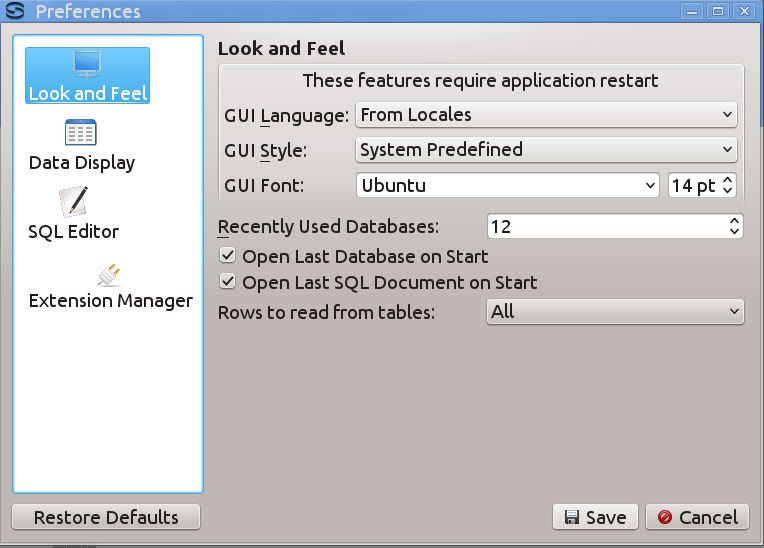
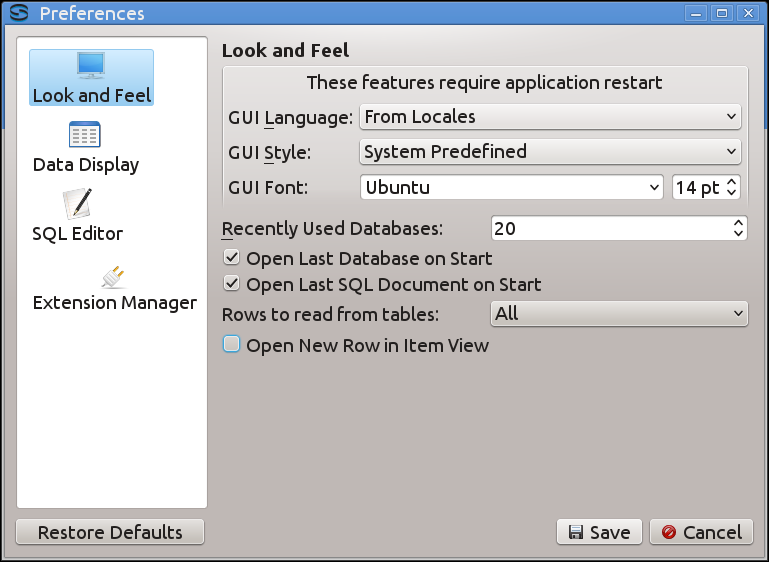
Add preference to open new rows in Item Viewer

Changed region(s): [[0.0, 0.0, 1.0, 1.0]]

diff --git a/Sqliteman/sqliteman/doc/en/ch07s12.html b/Sqliteman/sqliteman/doc/en/ch07s12.html
@@ -6,14 +6,18 @@ from SQL Editor. You cannot commit your changes by <span><strong class="command"
 </p></div><p>Data changes are available only for tables (invoked in Schema Browser). There is no way to edit the data returned
   by an SQL statement yet.</p><p>
           </p><div class="screenshot"><div class="mediaobject"><img src="dataViewer.png" alt="Data Viewer/Browser"></div></div><p>
-          </p><div class="variablelist"><dl><dt><span class="term"><span class="guiicon"><img src="insert_table_row.png">Insert Row</span>
-    </span></dt><dd><p><span class="action">This button is enabled only when viewing a table. It creates a new and empty row at the end of the table. Default values are prefilled except for PRIMARY KEY AUTOINCREMENT fields. <a href="ch07s12.html#commit">Commit</a> action is required to make this permanent. If a field has a default of CURRENT_TIMESTAMP, CURRENT_DATE, or CURRENT_TIME, it will be prefilled with the date and/or time when the record is created, but if the field is not modified it will be overwritten when changes are committed with the date and/or time then.</p></dd><dt><span class="term"><span class="guiicon"><img src="duplicate_table_row.png">Duplicate Row</span>
-    </span></dt><dd><p><span class="action">This button is enabled only when viewing a table and a current row is selected. It creates a copy of the current row at the end of the table (this can be useful when creating rows which differ only in one field).
-    <a href="ch07s12.html#commit">Commit</a> action is required to make this permanent.</span></p></dd><dt><span class="term"><span class="guiicon"><img src="delete_table_row.png">Delete Row</span>
+          </p><div class="variablelist"><dl><dt><span class="term"><span class="guiicon"><img src="insert_table_row.png"><dfn id = "newrow">New Row</dfn></span>
+    </span></dt><dd><p><span class="action">This button is enabled only when viewing a table. It creates a new and empty row at the end of the table. Default values are prefilled except for PRIMARY KEY AUTOINCREMENT fields. <a href="ch07s12.html#commit">Commit</a> action is required to make this permanent. If a field has a default of CURRENT_TIMESTAMP, CURRENT_DATE, or CURRENT_TIME, it will be prefilled with the date and/or time when the record is created, but if the field is not modified it will be overwritten when changes are committed with the date and/or time then.</p></dd><dt><span class="term"><span class="guiicon"><img src="duplicate_table_row.png"><dfn id = "copyrow">Duplicate Row</dfn></span>
+    </span></dt><dd><p><span class="action">This button is enabled only when viewing a table and a current row is selected. It creates a copy of the current row at the end of the table (this can be useful when creating rows which differ only in one field). Note that the Qt SQL library gets confused
+    if the database contains multiple rows with the same data fields: make sure
+    to modify the copy before committing.
+    <a href="ch07s12.html#commit">Commit</a> action is required to make this permanent.</span></p></dd><dt><span class="term"><span class="guiicon"><img src="delete_table_row.png"><dfn id = "removerow">Remove Row</dfn></span>
     </span></dt><dd><p><span class="action">This button is enabled only when viewing a table and a current row is selected. It deletes the selected row from the table.
     <a href="ch07s12.html#commit">Commit</a> action is required to make this permanent.</span></p></dd><dt><span class="term"><span class="guiicon"><img src="delete_multiple.png">Delete Multiple</span>
-    </span></dt><dd><p><span class="action">This button replaces the Delete Row
-    button when you have just executed a query created by the Query Builder.
+    </span></dt><dd><p><span class="action">This button replaces the
+    <a href="ch07s12.html#removerow">Remove Row</a>
+    button when you have just executed a query created by the
+    <a href="ch06s03.html#querybuilder">Query Builder.</a>
     It deletes all the records
     found by the query from the table against which the query was run. It will
     ask you if you really want to first as this can delete a lot of records.
@@ -24,14 +28,14 @@ from SQL Editor. You cannot commit your changes by <span><strong class="command"
     widget, since this can contain a more complex SELECT which cannot be
     simply modified into a DELETE statment.</span></p></dd><dt><span class="term"><span class="guiicon"><img src="database_commit.png"><dfn id = "commit">Commit</dfn></span>
     </span></dt><dd><p><span class="action">This button is enabled only when changes have been made in the DataViewer. It promotes the  changes into the database.</span></p></dd><dt><span class="term"><span class="guiicon"><img src="database_rollback.png"><dfn id ="rollback">Rollback</dfn></span>
-    </span></dt><dd><p><span class="action">This button is eanbled only when changes have been made in the DataViewer. It rejects the changes and reloads the Data Viewer from the database.</span></p></dd><dt><span class="term"><span class="guiicon"><img src="blob.png">Blob Preview</span>
+    </span></dt><dd><p><span class="action">This button is enabled only when changes have been made in the DataViewer. It rejects the changes and reloads the Data Viewer from the database.</span></p></dd><dt><span class="term"><span class="guiicon"><img src="blob.png">Blob Preview</span>
     </span></dt><dd><p><span class="action">Enable or disable BLOB preview widget. The blob preview widget can only be enabled when a field containing a blob is selected, but it can be disabled whenever it is enabled. If the blob preview is enabled, it will appear whenever a field containing a blob is selected and it will attempt to display the blob as an image.
     </span></p></dd><dt><span class="term"><span class="guiicon"><img src="document-export.png">Data Export</span>
     </span></dt><dd><p><span class="action">Open the Data Export dialog. You can export currently selected
       data in various formats. <a href="ch07s13.html" title="Export Data">See Data Export documentation</a>.</span></p></dd><dt><span class="term"><span class="guiicon"><img src="snapshot.png">Table Snapshot</span>
     </span></dt><dd><p><span class="action">Duplicate current result table into new read only window.
       You can compare data versions etc. with it.</span></p></dd><dt><span class="term"><span class="guiicon"><img src="go-next-use.png">Go to line number</span>
-    </span></dt><dd><p><span class="action">This button pops up a dialog to select a row number. It will select the first field of that row and scroll the Data Viewer to make it visible.</span></p></dd></dl></div><div class="sect2" lang="en"><div class="titlepage"><div><div><h3 class="title"><a name="id2527777"></a>Display Types</h3></div></div></div><div class="variablelist"><dl><dt><span class="term">Full View</span></dt><dd><p>Display data as a table. It's the most common view on SQL results.</p></dd><dt><span class="term">Item View</span></dt><dd><p>Clicking on the Item View tab will display the Item View for the currently selected row (the tab is disabled when there is no current row). Double-clicking on a row number in the Full View will open the Item View for that row.</p><p>The Item View displays only one row at a time, but with more space to edit each field. The navigation buttons at the right move to the first, previous, next, and last row respectively, and are disabled if you are already at that row. There are also buttons to overwrite the selected field with a NULL or to open the <a href="ch07s12.html#advanced">Advanced Editor</a>. You can also use the go to line number button.
+    </span></dt><dd><p><span class="action">This button pops up a dialog to select a row number. It will select the first field of that row and scroll the Data Viewer to make it visible.</span></p></dd></dl></div><div class="sect2" lang="en"><div class="titlepage"><div><div><h3 class="title"><a name="id2527777"></a>Display Types</h3></div></div></div><div class="variablelist"><dl><dt><span class="term">Full View</span></dt><dd><p>Display data as a table. It's the most common view on SQL results.</p></dd><dt><span class="term"><dfn id ="itemview">Item View</dfn></span></dt><div class="screenshot"><div class="mediaobject"><img src="itemViewer.png" alt="Item Viewer/Browser"></div><dd><p>Clicking on the Item View tab will display the Item View for the currently selected row (the tab is disabled when there is no current row). Double-clicking on a row number in the Full View will open the Item View for that row.</p><p>The Item View displays only one row at a time, but with more space to edit each field. The navigation buttons at the right move to the first, previous, next, and last row respectively, and are disabled if you are already at that row. You can also use the go to line number button.
         This view is now fully editable and synchronised with the Full View. If you are using NULL higlighting, the NULL alias will disappear if you click on a NULL field, so that you can type something in there: this only happens with editable tables.</p></dd><dt><span class="term">Script Output</span></dt><dd><p>Describe action results and <span><strong class="command">Run As Script</strong></span> from SQL Editor
         results are listed in this tab. It is automatically selected if you run a script.</p></dd></dl></div></div><div class="sect2" lang="en"><div class="titlepage"><div><div><h3 class="title"><a name="dataViewer-editor"></a>Data Editor</h3></div></div></div><p>Basic data editing is handled directly in the table cell, invoked
       by double-click on the field or <span><strong class="keycap">Ctrl</strong></span>+<span><strong class="keycap">Space</strong></span> when a field is selected.</p><div class="important" style="margin-left: 0.5in; margin-right: 0.5in;"><h3 class="title">Important</h3><p>Remember that Sqlite recognizes NULL and empty string as two independent

diff --git a/Sqliteman/sqliteman/doc/en/ch06s03.html b/Sqliteman/sqliteman/doc/en/ch06s03.html
@@ -1,7 +1,7 @@
 <html><head><meta http-equiv="Content-Type" content="text/html; charset=UTF-8"><title>The Database Menu</title><link rel="stylesheet" href="kde-default.css" type="text/css"><meta name="generator" content="DocBook XSL Stylesheets V1.67.2"><meta name="keywords" content="Sqliteman, SQL, Sqlite, development, database"><link rel="start" href="index.html" title="The Sqliteman Handbook"><link rel="up" href="ch06.html" title="Chapter 6. Sqliteman Menu Structure"><link rel="prev" href="ch06s02.html" title="The Context Menu"><link rel="next" href="ch06s04.html" title="The System Menu"></head><body bgcolor="white" text="black" link="#0000FF" vlink="#840084" alink="#0000FF"><div class="navheader"><table width="100%" summary="Navigation header"><tr><th colspan="3" align="center">The <span class="guimenu">Database</span> Menu</th></tr><tr><td width="20%" align="left"><a accesskey="p" href="ch06s02.html">Prev</a> </td><th width="60%" align="center">Chapter 6. <span class="application">Sqliteman</span> Menu Structure</th><td width="20%" align="right"> <a accesskey="n" href="ch06s04.html">Next</a></td></tr></table><hr></div><div class="sect1" lang="en"><div class="titlepage"><div><div><h2 class="title" style="clear: both"><a name="database-menu"></a>The <span class="guimenu">Database</span> Menu</h2></div></div></div><p>Frequently used database tasks are grouped in this menu.</p><p>
 </p><div class="variablelist"><dl><dt><span class="term"><span class="guimenu">Database</span>-&gt;<span class="guimenuitem">Create Table...</span> (<span><strong class="shortcut"><span><strong class="keycap">Ctrl</strong></span>+<span><strong class="keycap">T</strong></span></strong></span>)</span></dt><dd><p><span class="action">The same as in the Context menu.
       <a href="ch07s02.html" title="Create Table">See full Create Table documentation</a></span></p></dd><dt><span class="term"><span class="guimenu">Database</span>-&gt;<span class="guimenuitem">Create View...</span> (<span><strong class="shortcut"><span><strong class="keycap">Ctrl</strong></span>+<span><strong class="keycap">G</strong></span></strong></span>)</span></dt><dd><p><span class="action">The same as in the Context menu.
-      <a href="ch07s06.html" title="View related dialogs">See full Create View documentation</a></span></p></dd><dt><span class="term"><span class="guimenu">Database</span>-&gt;<span class="guimenuitem">Build Query...</span> (<span><strong class="shortcut"><span><strong class="keycap">Ctrl</strong></span>+<span><strong class="keycap">R</strong></span></strong></span>)</span></dt><dd><p><span class="action">Raise a dialog to build and execute a simple query on any table. This is the same dialog as in the Context menu, but you can choose the table.</span></p></dd><dt><span class="term"><span class="guimenu">Database</span>-&gt;<span class="guimenuitem">SQL Editor</span> (<span><strong class="shortcut"><span><strong class="keycap">Ctrl</strong></span>+<span><strong class="keycap">E</strong></span></strong></span>)</span></dt><dd><p><span class="action">Switch On/Off the SQL text editor in the main window.</span></p></dd><dt><span class="term"><span class="guimenu">Database</span>-&gt;<span class="guimenuitem">Object Browser</span> (<span><strong class="shortcut"><span><strong class="keycap">Ctrl</strong></span>+<span><strong class="keycap">B</strong></span></strong></span>)</span></dt><dd><p><span class="action">Switch On/Off the Object Browser tree in the main window.</span></p></dd><dt><span class="term"><span class="guimenu">Database</span>-&gt;<span class="guimenuitem">Export Schema...</span></span></dt><dd><p><span class="action">Export only structure of the database. The result is only
+      <a href="ch07s06.html" title="View related dialogs">See full Create View documentation</a></span></p></dd><dt><span class="term"><span class="guimenu">Database</span>-&gt;<span class="guimenuitem"><dfn id ="querybuilder">Build Query...</dfn></span> (<span><strong class="shortcut"><span><strong class="keycap">Ctrl</strong></span>+<span><strong class="keycap">R</strong></span></strong></span>)</span></dt><dd><p><span class="action">Raise a dialog to build and execute a simple query on any table. This is the same dialog as in the Context menu, but you can choose the table.</span></p></dd><dt><span class="term"><span class="guimenu">Database</span>-&gt;<span class="guimenuitem">SQL Editor</span> (<span><strong class="shortcut"><span><strong class="keycap">Ctrl</strong></span>+<span><strong class="keycap">E</strong></span></strong></span>)</span></dt><dd><p><span class="action">Switch On/Off the SQL text editor in the main window.</span></p></dd><dt><span class="term"><span class="guimenu">Database</span>-&gt;<span class="guimenuitem">Object Browser</span> (<span><strong class="shortcut"><span><strong class="keycap">Ctrl</strong></span>+<span><strong class="keycap">B</strong></span></strong></span>)</span></dt><dd><p><span class="action">Switch On/Off the Object Browser tree in the main window.</span></p></dd><dt><span class="term"><span class="guimenu">Database</span>-&gt;<span class="guimenuitem">Export Schema...</span></span></dt><dd><p><span class="action">Export only structure of the database. The result is only
                   "create database" script.</span></p></dd><dt><span class="term"><span class="guimenu">Database</span>-&gt;<span class="guimenuitem">Dump Database...</span></span></dt><dd><p><span class="action">Export structure and data of the database. The result is the
                   "create database" script and data inserts too.</span></p></dd><dt><span class="term"><span class="guimenu">Database</span>-&gt;<span class="guimenuitem">Import Table Data...</span></span></dt><dd><p><span class="action">Import data into specified table. The import dialog with guided
                 steps is shown.</span></p></dd></dl></div><p>

diff --git a/Sqliteman/sqliteman/doc/en/ch07.html b/Sqliteman/sqliteman/doc/en/ch07.html
@@ -2,7 +2,11 @@
     <a href="ch03.html#options" title="options">command line parameters</a>.</p><p>
 </p><div class="screenshot"><div class="mediaobject"><img src="preferences-lnf.png" alt="Preferences: Look and Feel"></div></div><p>
 </p><div class="variablelist"><dl><dt><span class="term">GUI Language</span></dt><dd><p>Allow to choose one of the translations for user interface.
-        </p><div class="caution" style="margin-left: 0.5in; margin-right: 0.5in;"><h3 class="title">Caution</h3><p>Remember that translations are provide by group of volunteers (not by <span class="application">Sqliteman</span> developers). It's better <a href="ch09.html" title="Chapter 9. Credits and License">to contact translation authors</a> in the case of bug.</p></div></dd><dt><span class="term">GUI Style</span></dt><dd><p>Change the application "skin". Available styles are depending on platform. Default style should be good choice.</p></dd><dt><span class="term">GUI Font</span></dt><dd><p>Change the font and/or size used for GUI text.</p></dd><dt><span class="term">Recently Used Databases</span></dt><dd><p>Specify the count of items in the <span class="guimenu">File</span> <span class="guimenuitem">Recent Databases</span> menu.</p></dd><dt><span class="term">Open Last Database on Start</span></dt><dd><p>When it's checked, the last used database will be opened on the next <span class="application">Sqliteman</span> start.</p></dd><dt><span class="term">Open Last SQL Document on Start</span></dt><dd><p>When it's checked, the last used SQL script will be opened on the next <span class="application">Sqliteman</span> start.</p></dd><dt><span class="term">Rows to read from tables:</span></dt><dd><p>This determines the number of rows initially read from a table when opening it. Available choices are 256, 512, 1024, 2048, 4096, or All.</p></dd></dl></div></div><div class="sect2" lang="en"><div class="titlepage"><div><div><h3 class="title"><a name="preferences-dataViewer"></a>Data Display</h3></div></div></div><p>Change settings of the data result viewer here. There is no application restart required here.
+        </p><div class="caution" style="margin-left: 0.5in; margin-right: 0.5in;"><h3 class="title">Caution</h3><p>Remember that translations are provide by group of volunteers (not by <span class="application">Sqliteman</span> developers). It's better <a href="ch09.html" title="Chapter 9. Credits and License">to contact translation authors</a> in the case of bug.</p></div></dd><dt><span class="term">GUI Style</span></dt><dd><p>Change the application "skin". Available styles are depending on platform. Default style should be good choice.</p></dd><dt><span class="term">GUI Font</span></dt><dd><p>Change the font and/or size used for GUI text.</p></dd><dt><span class="term">Recently Used Databases</span></dt><dd><p>Specify the count of items in the <span class="guimenu">File</span> <span class="guimenuitem">Recent Databases</span> menu.</p></dd><dt><span class="term">Open Last Database on Start</span></dt><dd><p>When it's checked, the last used database will be opened on the next <span class="application">Sqliteman</span> start.</p></dd><dt><span class="term">Open Last SQL Document on Start</span></dt><dd><p>When it's checked, the last used SQL script will be opened on the next <span class="application">Sqliteman</span> start.</p></dd><dt><span class="term">Rows to read from tables:</span></dt><dd><p>This determines the number of rows initially read from a table when opening it. Available choices are 256, 512, 1024, 2048, 4096, or All.</p></dd><dt><span class="term">Open New Row in Item View </span></dt><dd><p>When it's checked, clicking the
+        <a href="ch07s12.html#newrow">New Row</a> or
+        <a href="ch07s12.html#copyrow">Duplicate Row</a>
+        button will cause the newly created row to be opened in the
+        <a href="ch07s12.html#itemview">Item View.</a></p></dd></dl></div></div><div class="sect2" lang="en"><div class="titlepage"><div><div><h3 class="title"><a name="preferences-dataViewer"></a>Data Display</h3></div></div></div><p>Change settings of the data result viewer here. There is no application restart required here.
     Viewer features are <a href="ch07s12.html" title="Data Viewer">described in its own section</a>.</p><p>
 </p><div class="screenshot"><div class="mediaobject"><img src="preferences-display.png" alt="Preferences: Data Display"></div></div><p>
 </p><div class="variablelist"><dl><dt><span class="term">NULL handling</span></dt><dd><p>There is no difference in displaying NULL value and an empty string if is this option disabled.</p><p>If you enable this feature, you can set the background color and the substitution

diff --git a/Sqliteman/sqliteman/preferencesdialog.cpp b/Sqliteman/sqliteman/preferencesdialog.cpp
@@ -216,6 +216,7 @@ PreferencesDialog::PreferencesDialog(QWidget * parent)
 	m_prefsLNF->openLastDBCheckBox->setChecked(prefs->openLastDB());
 	m_prefsLNF->openLastSqlFileCheckBox->setChecked(prefs->openLastSqlFile());
 	m_prefsLNF->rowsToRead->setCurrentIndex(prefs->rowsToRead());
+	m_prefsLNF->newInItemCheckBox->setChecked(prefs->openNewInItemView());
 
 	m_prefsData->nullCheckBox->setChecked(prefs->nullHighlight());
 	m_prefsData->nullAliasEdit->setText(prefs->nullHighlightText());
@@ -267,6 +268,7 @@ bool PreferencesDialog::saveSettings()
 	prefs->setOpenLastDB(m_prefsLNF->openLastDBCheckBox->isChecked());
 	prefs->setOpenLastSqlFile(m_prefsLNF->openLastSqlFileCheckBox->isChecked());
 	prefs->setRowsToRead(m_prefsLNF->rowsToRead->currentIndex());
+	prefs->setOpenNewInItemView(m_prefsLNF->newInItemCheckBox->isChecked());
 	// data results
 	prefs->setNullHighlight(m_prefsData->nullCheckBox->isChecked());
 	prefs->setNullHighlightText(m_prefsData->nullAliasEdit->text());
@@ -306,6 +308,7 @@ void PreferencesDialog::restoreDefaults()
 	m_prefsLNF->openLastDBCheckBox->setChecked(true);
 	m_prefsLNF->openLastSqlFileCheckBox->setChecked(true);
 	m_prefsLNF->rowsToRead->setCurrentIndex(5);
+	m_prefsLNF->newInItemCheckBox->setChecked(false);
 
 	m_prefsData->nullCheckBox->setChecked(true);
 	m_prefsData->nullAliasEdit->setText("{null}");

diff --git a/Sqliteman/sqliteman/dataviewer.cpp b/Sqliteman/sqliteman/dataviewer.cpp
@@ -5,6 +5,7 @@ a copyright and/or license notice that predates the release of Sqliteman
 for which a new license (GPL+exception) is in place.
 	FIXME Allow editing on views with INSTEAD OF triggers
 	FIXME Add row not honouring autoincrement
+	FIXME Reinstate field context menu in item view
 */
 
 #include <QMessageBox>
@@ -500,6 +501,10 @@ void DataViewer::addRow()
 		model->insertRows(activeRow, 1);
 		ui.tableView->scrollToBottom();
 		ui.tableView->selectRow(activeRow);
+		if (Preferences::instance()->openNewInItemView())
+		{
+			rowDoubleClicked(activeRow);
+		}
 		updateButtons();
 		if (ui.tabWidget->currentIndex() == 1)
 		{
@@ -534,6 +539,10 @@ void DataViewer::copyRow()
 				QModelIndex newIndex = ui.tableView->model()->index(
 					model->rowCount() - 1, index.column());
 				ui.tableView->setCurrentIndex(newIndex);
+				if (Preferences::instance()->openNewInItemView())
+				{
+					rowDoubleClicked(activeRow);
+				}
 				updateButtons();
 				if (ui.tabWidget->currentIndex() == 1)
 				{

diff --git a/Sqliteman/sqliteman/preferences.cpp b/Sqliteman/sqliteman/preferences.cpp
@@ -34,6 +34,7 @@ Preferences::Preferences(QObject *parent)
 	m_openLastSqlFile = s.value("prefs/openLastSqlFile", true).toBool();
 	m_readRows = s.value("prefs/readRowsComboBox", 0).toInt();
 	m_lastDB = s.value("lastDatabase", QString()).toString();
+	m_newInItemView = s.value("prefs/openNewInItemView", false).toBool();
 	m_GUItranslator = s.value("prefs/languageComboBox", 0).toInt();
 	m_GUIstyle = s.value("prefs/styleComboBox", 0).toInt();
 	m_GUIfont = s.value("prefs/applicationFont", f).value<QFont>();
@@ -85,6 +86,7 @@ Preferences::~Preferences()
 	settings.setValue("prefs/recentlyUsedSpinBox", m_recentlyUsedCount);
 	settings.setValue("prefs/openLastDB", m_openLastDB);
 	settings.setValue("prefs/openLastSqlFile", m_openLastSqlFile);
+	settings.setValue("prefs/openNewInItemView", m_newInItemView);
 	settings.setValue("prefs/readRowsComboBox", m_readRows);
 	// data results
 	settings.setValue("prefs/nullCheckBox", m_nullHighlight);

diff --git a/Sqliteman/sqliteman/preferences.h b/Sqliteman/sqliteman/preferences.h
@@ -60,6 +60,9 @@ class Preferences : public QObject
 		
 		int rowsToRead() { return m_readRows; };
 		void setRowsToRead(int index) { m_readRows = index; };
+		
+		bool openNewInItemView() { return m_newInItemView; }
+		void setOpenNewInItemView(bool v) { m_newInItemView = v; }
 
 		int GUItranslator() { return m_GUItranslator; };
 		void setGUItranslator(int v) { m_GUItranslator = v; };
@@ -167,6 +170,7 @@ class Preferences : public QObject
 		bool m_openLastSqlFile;
 		int m_readRows;
 		QString m_lastDB;
+		bool m_newInItemView;
 		int m_GUItranslator;
 		int m_GUIstyle;
 		QFont m_GUIfont;
